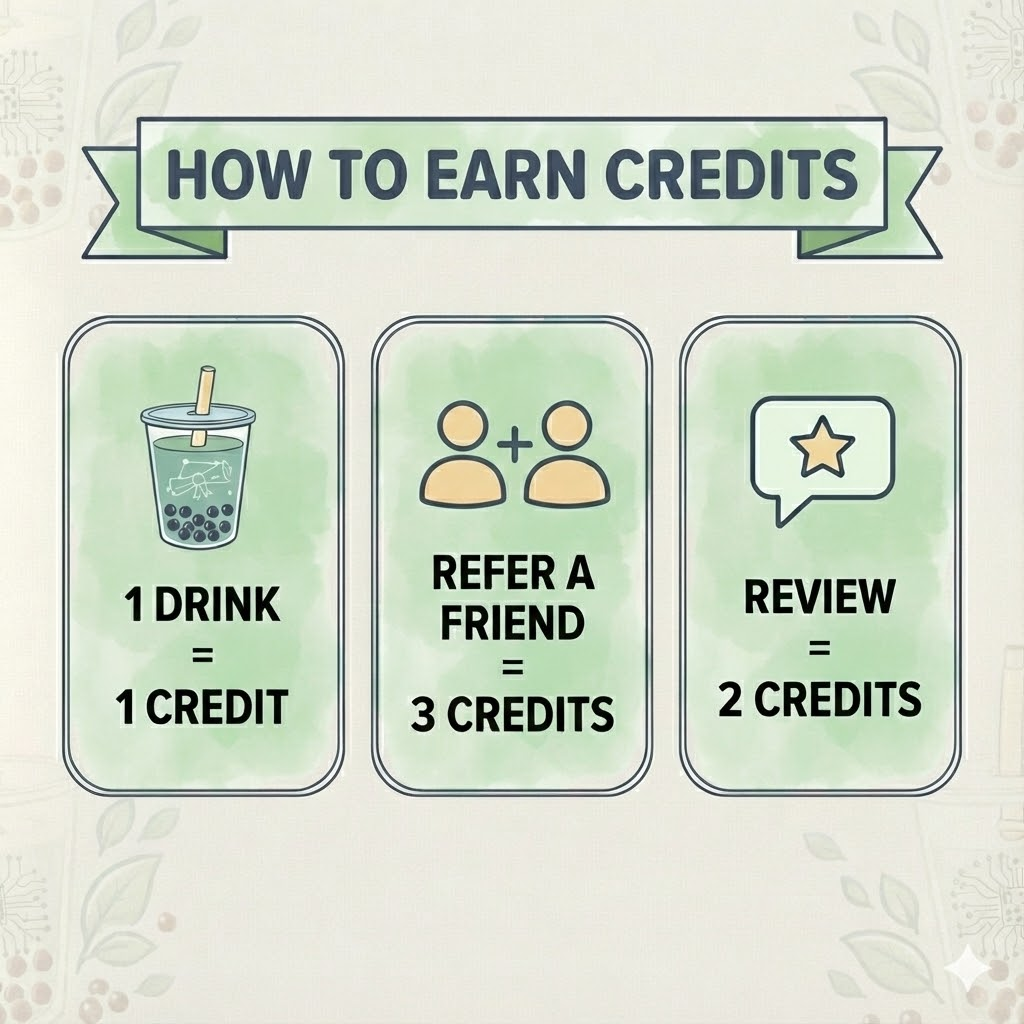
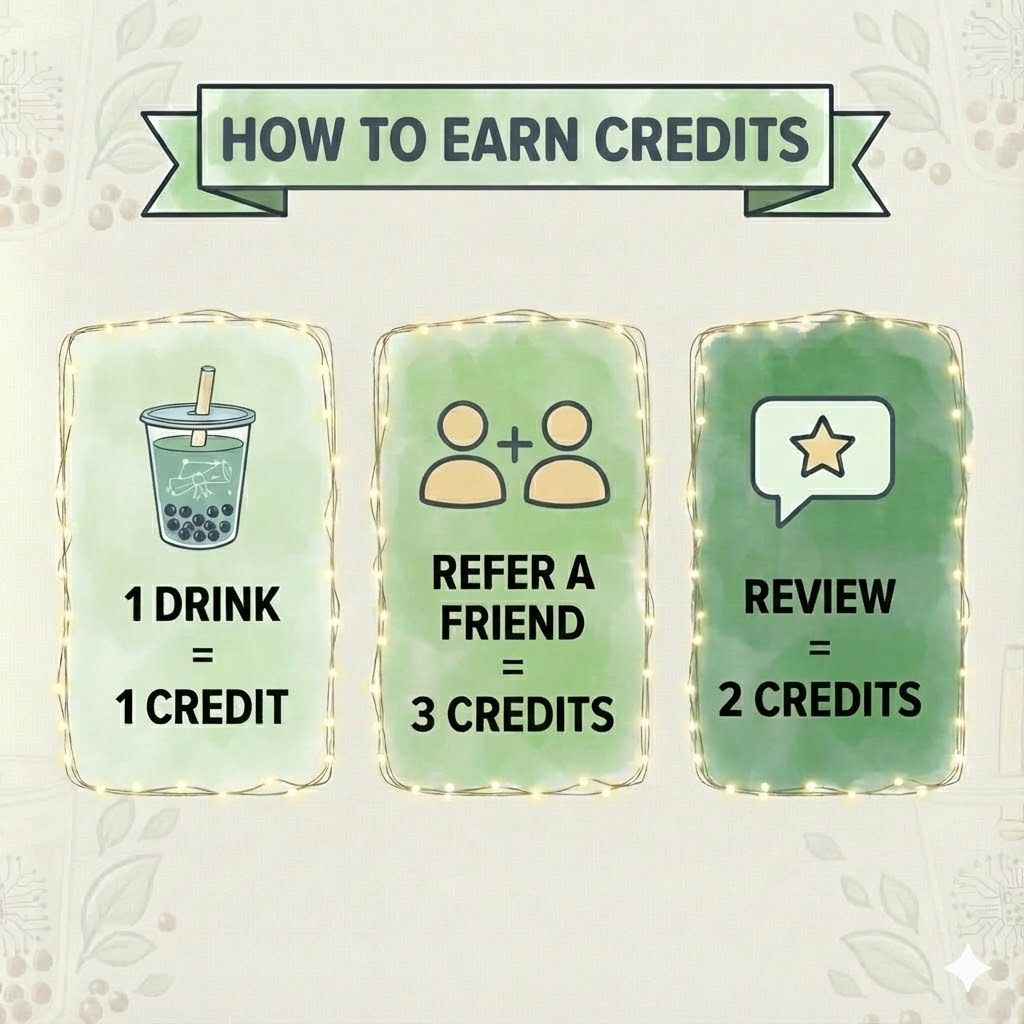
Revised Reward outline images

diff --git a/rewards.html b/rewards.html
@@ -79,7 +79,7 @@
 	<div class="reward-box">
 			<fieldset>
 				<legend>Reward Levels. . .</legend>
-				<img class="rewardsImage" src="Rewards-Levels.jpg" alt="How To Earn Points!">
+				<img class="rewardsImage" src="Rewards-Level.jpg" alt="How To Earn Points!">
 			</fieldset></div>
 
 			
